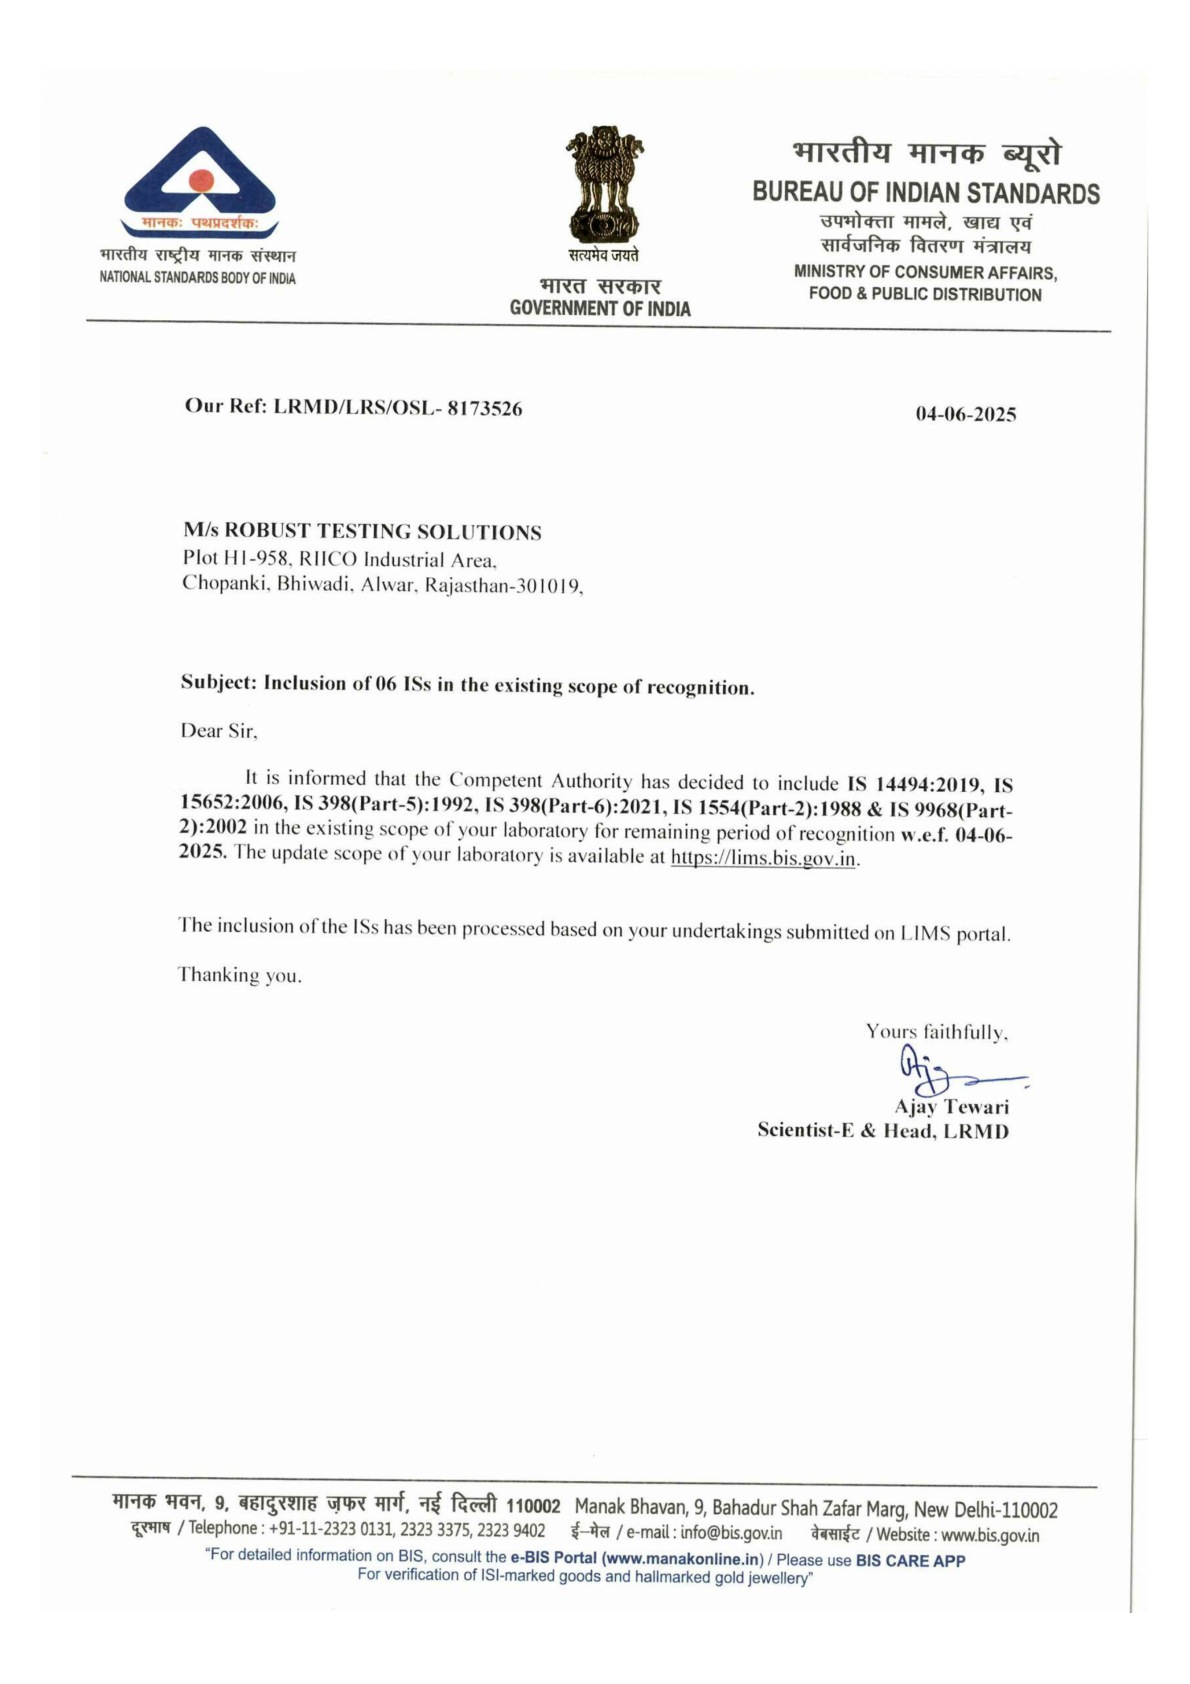
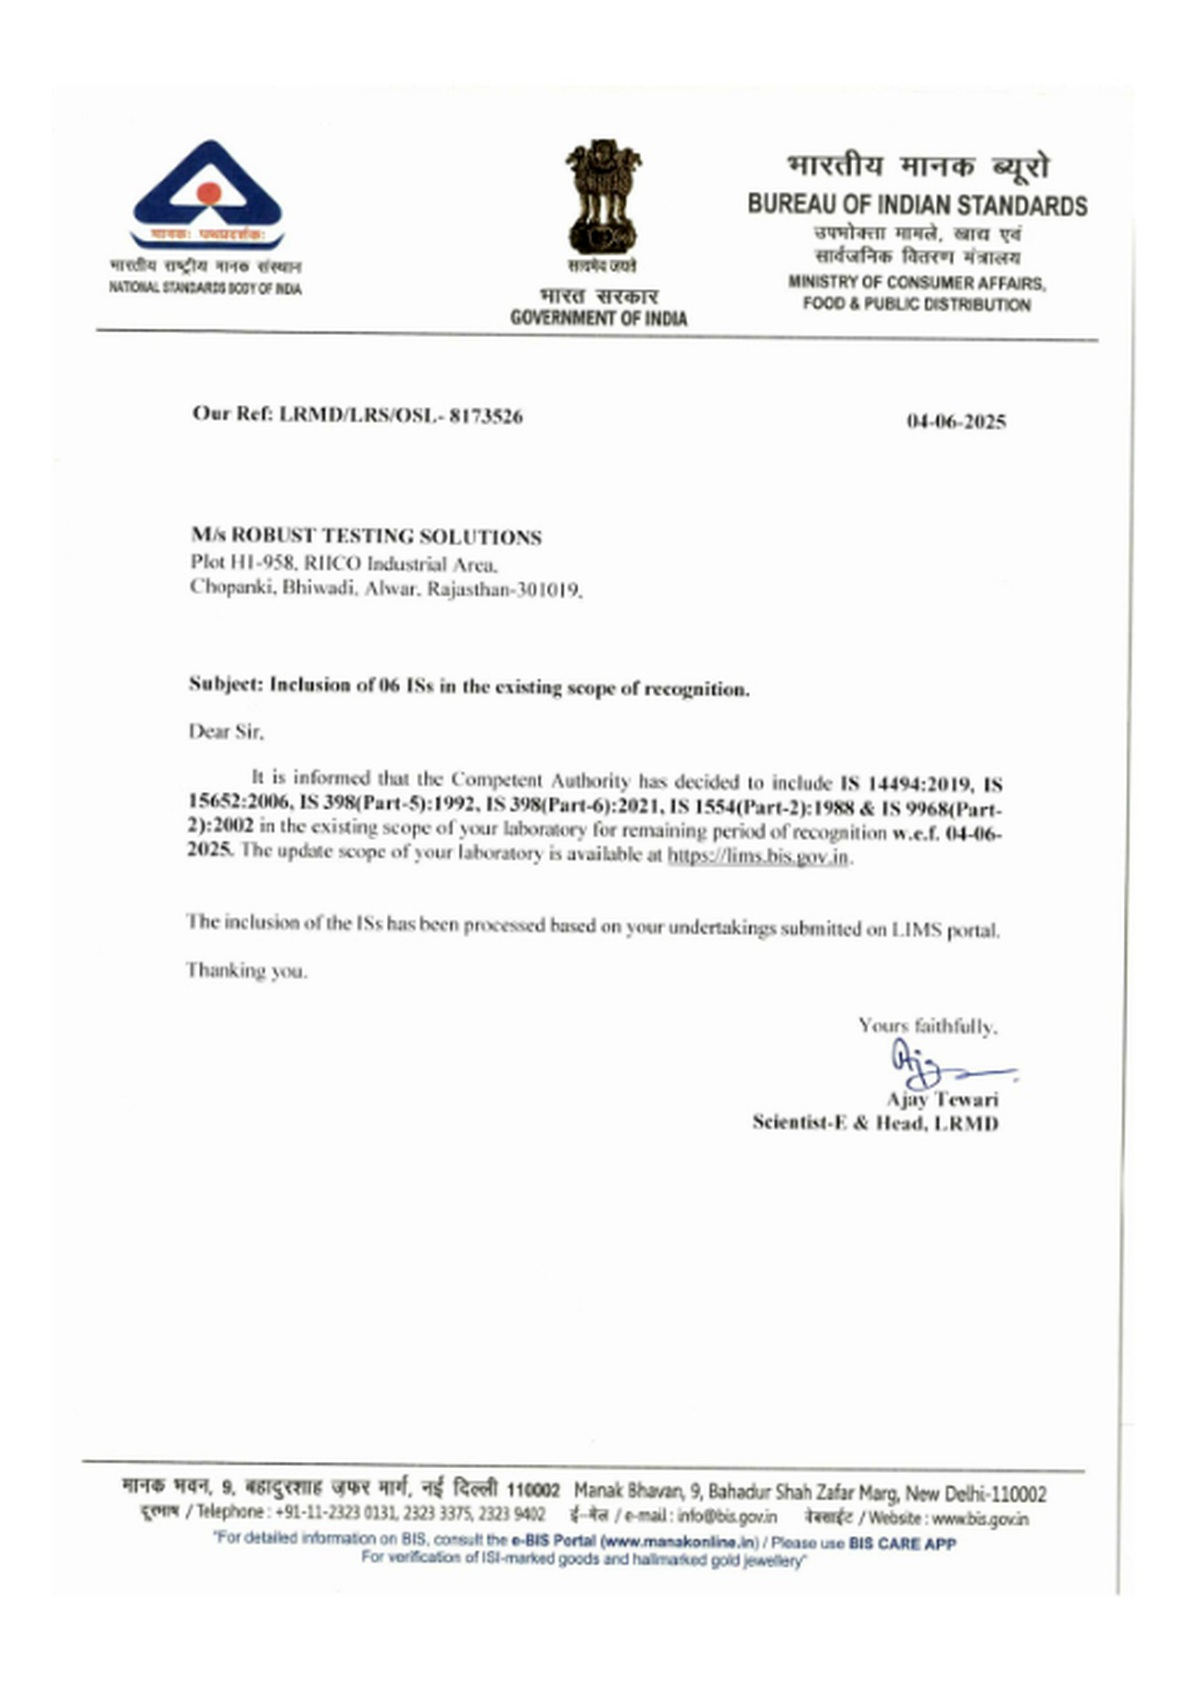
fix(certs): hover enlarge and replace BIS/ISO scans
Drop the click lightbox. Certificates now scale in place on hover. Use Sravana's clean BIS letter and an upright, even-matted ISO 9001 page matching NABL and FDAS.

diff --git a/accreditations/index.html b/accreditations/index.html
@@ -177,7 +177,7 @@
       <div class="grid-2 reveal" data-delay="1">
         <button class="cert" type="button" style="text-align:left;display:flex;gap:1rem;align-items:center" data-cert="NABL Accreditation — TC-16290" data-cert-img="../assets/images/nabl-certificate-tc-16290.jpg" data-cert-doc data-cert-detail="NABL accreditation to ISO/IEC 17025:2017 under certificate number TC-16290 for Robust Testing Solutions Pvt Ltd., Plot H1-958, RIICO Chopanki, Bhiwadi (Delhi-NCR). Issue 20/06/2025. Valid until 19/06/2029. Accreditation covers the tests listed in the current NABL scope; testing outside that scope can be offered on a non-accredited basis where available.">
           <div class="cert__frame cert__frame--img" style="width:110px;aspect-ratio:3/4;margin:0;flex:none"><img src="../assets/images/nabl-certificate-tc-16290.jpg" width="110" height="150" alt="NABL Certificate of Accreditation TC-16290 for Robust Testing Solutions Pvt Ltd." loading="lazy" /></div>
-          <span><span class="caption" style="display:block">NABL — ISO/IEC 17025:2017</span><span class="note">TC-16290 · click to enlarge</span></span>
+          <span><span class="caption" style="display:block">NABL — ISO/IEC 17025:2017</span><span class="note">TC-16290 · hover to enlarge</span></span>
         </button>
         <article class="info-card">
           <h3>What this covers</h3>
@@ -188,11 +188,11 @@
       <div class="grid-2 reveal" data-delay="1" style="margin-top:1.4rem">
         <button class="cert" type="button" style="text-align:left;display:flex;gap:1rem;align-items:center" data-cert="FDAS Certificate of Accreditation — TL-117" data-cert-img="../assets/images/fdas-certificate-tl-117.png" data-cert-doc data-cert-detail="FDAS Certificate of Accreditation to ISO/IEC 17025:2017 for Robust Testing Solutions Pvt Ltd. Certificate Number TL-117. Issue 17.01.2026. Valid until 16.01.2028. Accreditation covers the scope specified in the annexure; the applicable scope for your requirement is confirmed when we quote.">
           <div class="cert__frame cert__frame--img" style="width:110px;aspect-ratio:3/4;margin:0;flex:none"><img src="../assets/images/fdas-certificate-tl-117.png" width="110" height="150" alt="FDAS Certificate of Accreditation ISO/IEC 17025:2017, certificate number TL-117" loading="lazy" /></div>
-          <span><span class="caption" style="display:block">FDAS — ISO/IEC 17025:2017</span><span class="note">Certificate no. TL-117 · click to enlarge</span></span>
+          <span><span class="caption" style="display:block">FDAS — ISO/IEC 17025:2017</span><span class="note">Certificate no. TL-117 · hover to enlarge</span></span>
         </button>
         <article class="info-card">
           <h3>What this covers</h3>
-          <p>FDAS accreditation (TL-117) is to ISO/IEC 17025:2017. Issued 17.01.2026, valid until 16.01.2028. The certificate remains valid for the scope specified in the annexure. Click the certificate to enlarge.</p>
+          <p>FDAS accreditation (TL-117) is to ISO/IEC 17025:2017. Issued 17.01.2026, valid until 16.01.2028. The certificate remains valid for the scope specified in the annexure. Hover the certificate to enlarge.</p>
         </article>
       </div>
 
@@ -200,21 +200,21 @@
       <div class="grid-2 reveal" data-delay="1">
         <button class="cert" type="button" style="text-align:left;display:flex;gap:1rem;align-items:center" data-cert="BIS Recognition" data-cert-img="../assets/images/bis-certificate-osl-8173526.jpg" data-cert-doc data-cert-detail="Bureau of Indian Standards laboratory recognition. Letter ref. LRMD/LRS/OSL-8173526 dated 04-06-2025 confirming inclusion of six Indian Standards in the existing scope of recognition with effect from 04-06-2025.">
           <div class="cert__frame cert__frame--img" style="width:110px;aspect-ratio:3/4;margin:0;flex:none"><img src="../assets/images/bis-certificate-osl-8173526.jpg" width="110" height="150" alt="BIS recognition letter OSL-8173526 for Robust Testing Solutions Pvt Ltd." loading="lazy" /></div>
-          <span><span class="caption" style="display:block">Bureau of Indian Standards</span><span class="note">Recognition · click to enlarge</span></span>
+          <span><span class="caption" style="display:block">Bureau of Indian Standards</span><span class="note">Recognition · hover to enlarge</span></span>
         </button>
-        <article class="info-card"><h3>What this covers</h3><p>Recognition by the Bureau of Indian Standards for the relevant activity. The 04-06-2025 letter (OSL-8173526) records six additional Indian Standards in the existing recognition scope. Click the card to enlarge the letter.</p></article>
+        <article class="info-card"><h3>What this covers</h3><p>Recognition by the Bureau of Indian Standards for the relevant activity. The 04-06-2025 letter (OSL-8173526) records six additional Indian Standards in the existing recognition scope. Hover the card to enlarge the letter.</p></article>
       </div>
 
       <div class="reveal" style="margin-top:3rem"><p class="eyebrow">Certification</p><h2 class="section-title">Quality management system</h2><p class="lead">Certification assesses the laboratory's management system against a standard.</p></div>
       <div class="grid-2 reveal" data-delay="1">
         <button class="cert" type="button" style="text-align:left;display:flex;gap:1rem;align-items:center" data-cert="ISO 9001:2015" data-cert-img="../assets/images/iso-9001-2015-certificate.jpg" data-cert-doc data-cert-detail="ISO 9001:2015 quality management system certification issued by ICV Assessments Pvt. Ltd. Certificate no. IN/30816703/9478. Issue 07/02/2025. Valid until 06/02/2028. Scope: testing of electrical cables, wire, and electrical products.">
           <div class="cert__frame cert__frame--img" style="width:110px;aspect-ratio:3/4;margin:0;flex:none"><img src="../assets/images/iso-9001-2015-certificate.jpg" width="110" height="150" alt="ISO 9001:2015 certificate IN/30816703/9478 for Robust Testing Solutions Pvt Ltd." loading="lazy" /></div>
-          <span><span class="caption" style="display:block">ISO 9001:2015</span><span class="note">Quality management · click to enlarge</span></span>
+          <span><span class="caption" style="display:block">ISO 9001:2015</span><span class="note">Quality management · hover to enlarge</span></span>
         </button>
-        <article class="info-card"><h3>What this covers</h3><p>A certified quality management system supporting consistent laboratory operations and documentation. This is a management-system certification, separate from test accreditation. Click the card to enlarge the certificate.</p></article>
+        <article class="info-card"><h3>What this covers</h3><p>A certified quality management system supporting consistent laboratory operations and documentation. This is a management-system certification, separate from test accreditation. Hover the card to enlarge the certificate.</p></article>
       </div>
 
-      <p class="note reveal" style="margin-top:2rem">Robust publishes only credentials it genuinely holds — no badge is shown that the laboratory does not hold, and not all tests are necessarily within accredited scope. Click a card to enlarge the certificate. NABL scope annexures not published here remain available on request — <a href="../contact/">contact us</a>.</p>
+      <p class="note reveal" style="margin-top:2rem">Robust publishes only credentials it genuinely holds — no badge is shown that the laboratory does not hold, and not all tests are necessarily within accredited scope. Hover a card to enlarge the certificate. NABL scope annexures not published here remain available on request — <a href="../contact/">contact us</a>.</p>
     </div></section>
   </main>
   <footer class="site-footer">

diff --git a/css/styles.css b/css/styles.css
@@ -415,12 +415,13 @@ body.nav-open { overflow: hidden; }
 
 /* Certificates */
 .grid-certs { grid-template-columns: repeat(2, 1fr); }
-.cert { background: #fff; border: 1px solid var(--line); border-radius: var(--r-lg); padding: 0.9rem; text-align: center; cursor: pointer; width: 100%; font: inherit; color: inherit; transition: transform 0.3s var(--ease), box-shadow 0.3s, border-color 0.2s; }
-.cert:hover, .cert:focus-visible { transform: translateY(-4px); box-shadow: var(--shadow-md); border-color: var(--gold); }
+.cert { background: #fff; border: 1px solid var(--line); border-radius: var(--r-lg); padding: 0.9rem; text-align: center; cursor: default; width: 100%; font: inherit; color: inherit; transition: transform 0.3s var(--ease), box-shadow 0.3s, border-color 0.2s; }
+.cert:hover, .cert:focus-visible, .cert.is-enlarged { transform: translateY(-4px); box-shadow: var(--shadow-md); border-color: var(--gold); }
 .cert__frame { aspect-ratio: 3/4; border-radius: 10px; margin-bottom: 0.7rem; position: relative; overflow: hidden; background: linear-gradient(180deg, #fbfdff, #eef4fb); border: 1px solid var(--line-soft); display: grid; place-items: center; color: var(--muted); font-size: 0.8rem; padding: 0.85rem; font-family: var(--fx-display); font-weight: 700; }
 .cert__frame::after { content: ""; position: absolute; inset: 0.5rem; border: 1px solid rgba(201,162,100,0.3); border-radius: 6px; pointer-events: none; }
 .cert__frame--img { background: #fff; overflow: hidden; }
-.cert__frame--img img { max-width: 88%; max-height: 88%; width: auto; height: auto; object-fit: contain; object-position: center; }
+.cert__frame--img img { max-width: 88%; max-height: 88%; width: auto; height: auto; object-fit: contain; object-position: center; transform-origin: center center; transition: transform 0.35s var(--ease); }
+.cert:hover .cert__frame--img img, .cert:focus-visible .cert__frame--img img, .cert.is-enlarged .cert__frame--img img { transform: scale(1.28); }
 .cert .caption { font-weight: 700; font-size: 0.85rem; color: var(--navy); font-family: var(--fx-display); }
 
 /* Homepage certificates — GTL-style document row, Robust credentials only */
@@ -430,18 +431,19 @@ body.nav-open { overflow: hidden; }
 .certs-row { display: flex; align-items: center; justify-content: center; gap: 0.35rem; width: 100%; }
 .certs-viewport { overflow: hidden; flex: 1 1 auto; width: 100%; min-width: 0; }
 .certs-track { display: flex; gap: 1.2rem; justify-content: flex-start; transition: transform 0.4s var(--ease); will-change: transform; }
-.certs-card { flex: 0 0 min(240px, 78vw); width: min(240px, 78vw); min-width: 0; background: transparent; border: 0; padding: 0; cursor: pointer; font: inherit; color: inherit; text-align: center; }
-.certs-card__frame { display: block; aspect-ratio: 3 / 4; background: #fff; border: 1px solid #d5deea; box-shadow: 0 10px 28px rgba(11, 25, 48, 0.08); padding: 0.5rem; overflow: hidden; }
+.certs-card { flex: 0 0 min(240px, 78vw); width: min(240px, 78vw); min-width: 0; background: transparent; border: 0; padding: 0; cursor: default; font: inherit; color: inherit; text-align: center; }
+.certs-card__frame { display: block; aspect-ratio: 3 / 4; background: #fff; border: 1px solid #d5deea; box-shadow: 0 10px 28px rgba(11, 25, 48, 0.08); padding: 0.5rem; overflow: hidden; transition: border-color 0.2s, box-shadow 0.3s; }
 .certs-sheet { display: flex; flex-direction: column; align-items: center; justify-content: center; gap: 0.55rem; width: 100%; height: 100%; min-width: 0; min-height: 0; padding: 0.85rem 0.7rem; border: 1px solid rgba(201, 162, 100, 0.45); background: linear-gradient(180deg, #fff, #f7fafd); }
 .certs-sheet img { width: auto; height: auto; max-width: 72%; max-height: 48%; object-fit: contain; }
 .certs-sheet--photo { padding: 0.28rem; background: #fff; overflow: hidden; }
-.certs-sheet--photo img { max-width: 100%; max-height: 100%; width: 100%; height: 100%; min-width: 0; min-height: 0; object-fit: contain; object-position: center; }
+.certs-sheet--photo img { max-width: 100%; max-height: 100%; width: 100%; height: 100%; min-width: 0; min-height: 0; object-fit: contain; object-position: center; transform-origin: center center; transition: transform 0.35s var(--ease); }
 .certs-sheet__kicker { font-size: 0.62rem; letter-spacing: 0.18em; text-transform: uppercase; color: var(--gold-deep); font-weight: 700; font-family: var(--fx-display); }
 .certs-sheet__iso { width: 3.4rem; height: 3.4rem; border-radius: 50%; border: 2px solid var(--blue); color: var(--blue); display: grid; place-items: center; font-family: var(--fx-display); font-weight: 800; font-size: 0.82rem; }
 .certs-sheet strong { color: var(--navy); font-family: var(--fx-display); font-size: 0.98rem; line-height: 1.2; }
 .certs-sheet span { color: var(--muted); font-size: 0.78rem; font-weight: 600; }
 .certs-card__label { display: block; margin-top: 0.9rem; color: var(--blue); font-family: var(--fx-display); font-weight: 700; font-size: 0.95rem; }
-.certs-card:hover .certs-card__frame, .certs-card:focus-visible .certs-card__frame { border-color: var(--gold); box-shadow: var(--shadow-md); }
+.certs-card:hover .certs-card__frame, .certs-card:focus-visible .certs-card__frame, .certs-card.is-enlarged .certs-card__frame { border-color: var(--gold); box-shadow: var(--shadow-md); }
+.certs-card:hover .certs-sheet--photo img, .certs-card:focus-visible .certs-sheet--photo img, .certs-card.is-enlarged .certs-sheet--photo img { transform: scale(1.32); }
 .certs-nav { width: 2.5rem; height: 2.5rem; border: 0; background: transparent; color: var(--navy); font-size: 2.1rem; line-height: 1; cursor: pointer; border-radius: 50%; display: grid; place-items: center; }
 .certs-nav[hidden] { display: none; }
 .certs-nav:hover { color: var(--blue); background: var(--blue-soft); }

diff --git a/js/main.js b/js/main.js
@@ -248,49 +248,19 @@
     } else counters.forEach(run);
   }
 
-  /* ---------- Certificate lightbox ---------- */
-  const lightbox = $(".lightbox");
-  const lightboxBody = $("[data-lightbox-body]");
-  const lightboxClose = $("[data-lightbox-close]");
-  let lastFocused = null;
-  $$("[data-cert]").forEach((el) => {
-    el.addEventListener("click", () => {
-      if (!lightbox || !lightboxBody) return;
-      lastFocused = el;
-      const title = el.getAttribute("data-cert") || "Certificate";
-      const detail = el.getAttribute("data-cert-detail") || "";
-      const img = el.getAttribute("data-cert-img");
-      const pdf = el.getAttribute("data-cert-pdf");
-      const isDoc = el.hasAttribute("data-cert-doc");
-      const panel = lightbox.querySelector(".lightbox__panel");
-      panel?.classList.toggle("lightbox__panel--doc", Boolean((img && isDoc) || pdf));
-      panel?.classList.toggle("lightbox__panel--pdf", Boolean(pdf && !(img && isDoc)));
-      const safeTitle = title.replace(/&/g, "&amp;").replace(/</g, "&lt;").replace(/"/g, "&quot;");
-      let media = "";
-      if (img && isDoc) {
-        media = `<img src="${img}" alt="${safeTitle}" class="lightbox__img lightbox__img--doc" />`;
-      } else if (pdf) {
-        media = `<iframe class="lightbox__pdf" title="${safeTitle}" src="${pdf}#toolbar=0&navpanes=0&scrollbar=0&view=FitH"></iframe>`;
-      } else if (img) {
-        media = `<img src="${img}" alt="${safeTitle}" class="lightbox__img" />`;
-      }
-      lightboxBody.innerHTML =
-        `<p class="eyebrow">Accreditation</p><h3>${safeTitle}</h3>` +
-        media +
-        (detail ? `<p>${detail}</p>` : "");
-      lightbox.classList.add("is-open");
-      lightbox.setAttribute("aria-hidden", "false");
-      lightboxClose?.focus();
+  /* ---------- Certificate hover enlarge (no lightbox / no download) ---------- */
+  const certZoomables = $$(".certs-card, .cert[data-cert]");
+  certZoomables.forEach((el) => {
+    el.addEventListener("click", (e) => {
+      e.preventDefault();
+      const on = !el.classList.contains("is-enlarged");
+      certZoomables.forEach((other) => other.classList.remove("is-enlarged"));
+      if (on) el.classList.add("is-enlarged");
     });
   });
-  const closeLightbox = () => {
-    lightbox?.classList.remove("is-open");
-    lightbox?.setAttribute("aria-hidden", "true");
-    lastFocused?.focus();
-  };
-  lightboxClose?.addEventListener("click", closeLightbox);
-  lightbox?.addEventListener("click", (e) => { if (e.target === lightbox) closeLightbox(); });
-  document.addEventListener("keydown", (e) => { if (e.key === "Escape") closeLightbox(); });
+  document.addEventListener("keydown", (e) => {
+    if (e.key === "Escape") certZoomables.forEach((el) => el.classList.remove("is-enlarged"));
+  });
 
   /* ---------- Gallery filters ---------- */
   const filterBtns = $$("[data-filter]");

diff --git a/index.html b/index.html
@@ -283,7 +283,7 @@
           <button class="certs-nav" type="button" data-certs-next aria-label="Next certificate">›</button>
         </div>
         <div class="certs-dots" data-certs-dots></div>
-        <p class="certs-foot">Click a certificate to enlarge · NABL scope annexure available on request · <a href="contact/">Contact us</a> · <a href="tel:+919968717582">+91 99687 17582</a></p>
+        <p class="certs-foot">Hover a certificate to enlarge · NABL scope annexure available on request · <a href="contact/">Contact us</a> · <a href="tel:+919968717582">+91 99687 17582</a></p>
         <a class="btn btn-gold certs-cta" href="accreditations/">View accreditations</a>
       </div>
     </section>
